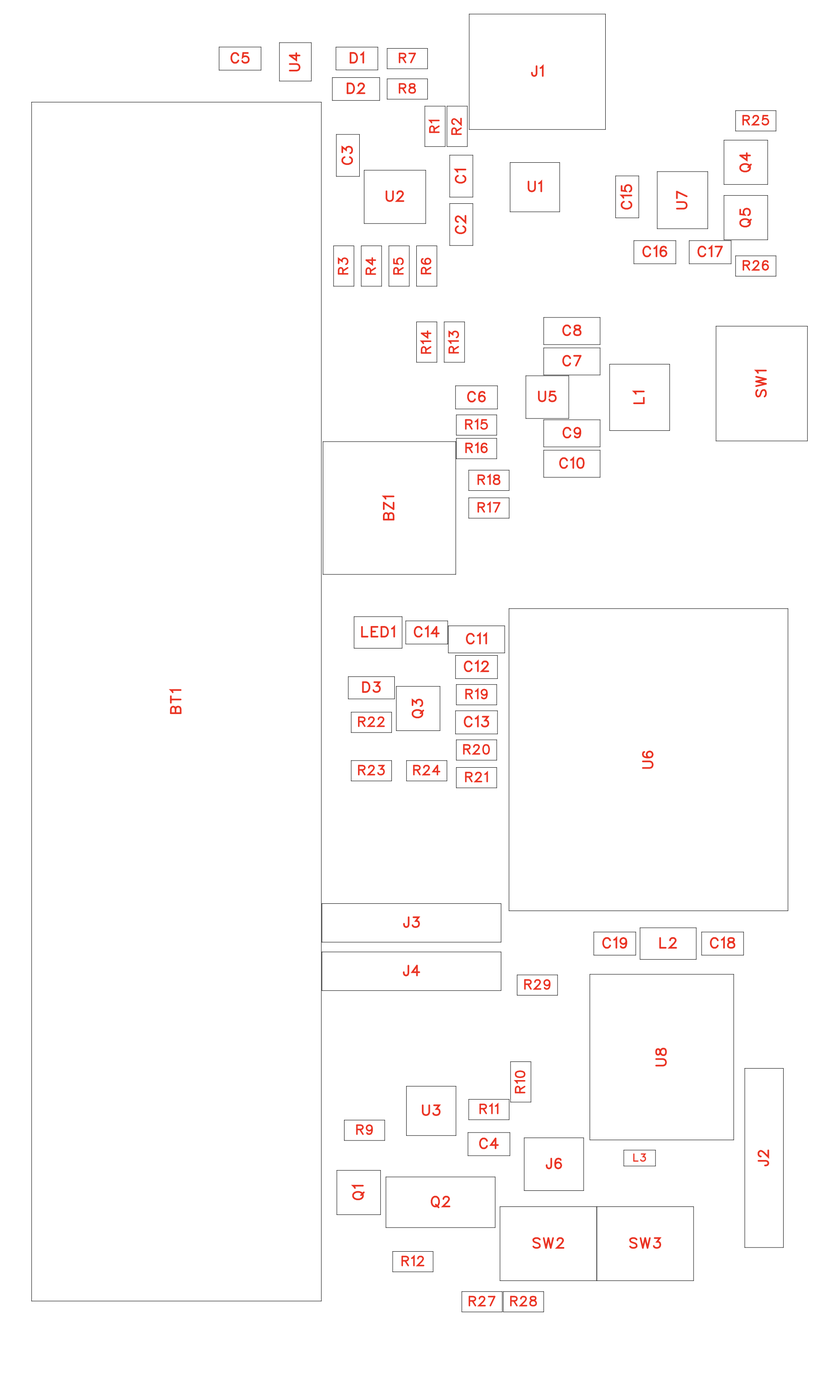
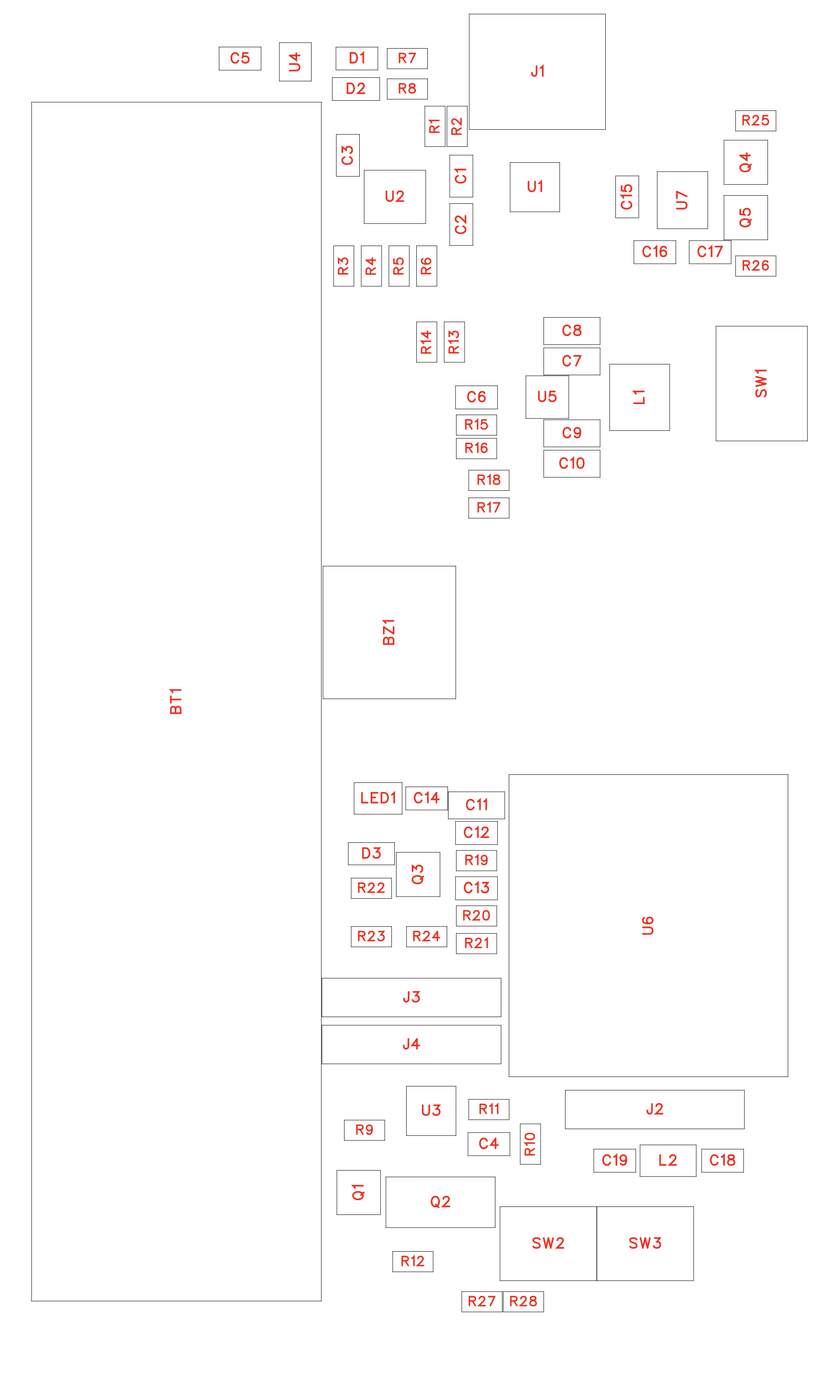
Remove on-board GPS from the design
Keep the external GPS header and its supply filter, delete the module
and antenna parts, and move the ESP32 module closer to the display
socket to free routing space.

diff --git a/docs/component-links.md b/docs/component-links.md
@@ -2,51 +2,48 @@
 
 Generated from the EasyEDA netlist on 2026-11-06. Datasheet and order links come from the EasyEDA library record for each exact part.
 
-**Link state:** every order page returned HTTP 200. Datasheet links were requested with a one-byte GET; the "Datasheet" column shows the HTTP status. 206 means the file answered. 405 means the LCSC file host refused an automated request, so those links are **not verified**. "read" means the datasheet was read for this design. Neither 206 nor 405 confirms the document matches the part. Manufacturer product pages are not filled in.
+**Link state:** every order page returned HTTP 200. Datasheet links were requested with a one-byte GET; the "Datasheet" column shows the HTTP status. A 200 means the server answered, not that the document was read and matched. Manufacturer product pages are not filled in.
 
 DNP parts are marked with `*`. They keep their footprint and stay out of the BOM.
 
 | Refs | Part | LCSC | Footprint | 3D | Datasheet |
 |---|---|---|---|---|---|
-| BT1 | 1042 | [C5249310](https://www.lcsc.com/product-detail/C5249310.html) | BAT-SMD_1042P | yes | [405](https://item.szlcsc.com/datasheet/1042/5962223.html) |
-| BZ1 | MLT-8530 | [C94599](https://www.lcsc.com/product-detail/C94599.html) | BUZ-SMD_4P-L8.5-W8.5-P8.50-BR | yes | [405](https://item.szlcsc.com/datasheet/MLT-8530/95797.html) |
-| C1, C13, C15 | CL10A105KB8NNNC | [C15849](https://www.lcsc.com/product-detail/C15849.html) | C0603 | yes | [405](https://item.szlcsc.com/datasheet/CL10A105KB8NNNC/16531.html) |
-| C2, C3, C18 | CL10A106KP8NNNC | [C19702](https://www.lcsc.com/product-detail/C19702.html) | C0603 | yes | [405](https://item.szlcsc.com/datasheet/CL10A106KP8NNNC/20411.html) |
-| C4, C5, C6, C12, C14, C16, C17, C19 | CC0603KRX7R9BB104 | [C14663](https://www.lcsc.com/product-detail/C14663.html) | C0603 | yes | [405](https://item.szlcsc.com/datasheet/CC0603KRX7R9BB104/15331.html) |
-| C7, C8, C9, C10, C11 | CL21A226MAQNNNE | [C45783](https://www.lcsc.com/product-detail/C45783.html) | C0805 | yes | [405](https://item.szlcsc.com/datasheet/CL21A226MAQNNNE/46786.html) |
-| D1 | KT-0603G | [C12624](https://www.lcsc.com/product-detail/C12624.html) | LED0603-RD | yes | [405](https://item.szlcsc.com/datasheet/KT-0603G/13258.html) |
-| D2 | KT-0603R | [C2286](https://www.lcsc.com/product-detail/C2286.html) | LED-SMD_L1.6-W0.8-R-RD | yes | [405](https://item.szlcsc.com/datasheet/KT-0603R/2659.html) |
-| D3 | 1N4148WS | [C2128](https://www.lcsc.com/product-detail/C2128.html) | SOD-323_L1.8-W1.3-LS2.5-RD | yes | [405](https://item.szlcsc.com/datasheet/1N4148WS/2485.html) |
-| J1 | TYPE-C-31-M-12 | [C165948](https://www.lcsc.com/product-detail/C165948.html) | USB-C_SMD-TYPE-C-31-M-12_1 | yes | [405](https://item.szlcsc.com/datasheet/TYPE-C-31-M-12/177331.html) |
-| J2*, J3*, J4* | PZ254V-11-05P | [C492404](https://www.lcsc.com/product-detail/C492404.html) | HDR-TH_5P-P2.54-V-M | yes | [405](https://item.szlcsc.com/datasheet/PZ254V-11-05P/502960.html) |
-| J5 | PM254-1-14-Z-8.5 | [C2897377](https://www.lcsc.com/product-detail/C2897377.html) | HDR-TH_14P-P2.54-V-F-1 | yes | [405](https://item.szlcsc.com/datasheet/PM254-1-14-Z-8.5/3142382.html) |
-| J6* | U.FL-R-SMT-1(01) | [C598199](https://www.lcsc.com/product-detail/C598199.html) | RF-SMD_U.FL-R-SMT-1-80 | yes | [405](https://item.szlcsc.com/datasheet/U.FL-R-SMT-1(01)/626815.html) |
-| L1 | WPN4020HR47MT | [C370628](https://www.lcsc.com/product-detail/C370628.html) | IND-SMD_L4.0-W4.0 | yes | [405](https://item.szlcsc.com/datasheet/WPN4020HR47MT/344379.html) |
-| L2 | SDFL2012S100KTF | [C1046](https://www.lcsc.com/product-detail/C1046.html) | L0805 | yes | [206](https://atta.szlcsc.com/upload/public/pdf/source/20231027/097A17DDB71564CE812E62F0F80142C9.pdf) |
-| L3* | LQG15HS47NJ02D | [C97998](https://www.lcsc.com/product-detail/C97998.html) | L0402 | yes | [206](https://atta.szlcsc.com/upload/public/pdf/source/20180326/C97998_6CC92641D07F7133B474CD910A72F6DE.pdf) |
-| LED1 | XL-1615RGBC-2812B | [C5349954](https://www.lcsc.com/product-detail/C5349954.html) | LED-SMD_4P-L1.6-W1.5_XL-1615RGBC-WS2812B-1 | yes | [405](https://item.szlcsc.com/datasheet/XL-1615RGBC-2812B/6136403.html) |
-| Q1 | AO3400A | [C20917](https://www.lcsc.com/product-detail/C20917.html) | SOT-23-3_L2.9-W1.3-P1.90-LS2.4-BR | yes | [405](https://item.szlcsc.com/datasheet/AO3400A/21629.html) |
-| Q2 | FS8205A | [C16052](https://www.lcsc.com/product-detail/C16052.html) | TSSOP-8_L4.4-W3.0-P0.65-LS6.4-BL-2 | yes | [405](https://item.szlcsc.com/datasheet/FS8205A/16734.html) |
-| Q3, Q4, Q5 | MMBT3904(RANGE:100-300) | [C20526](https://www.lcsc.com/product-detail/C20526.html) | SOT-23-3_L2.9-W1.3-P1.90-LS2.4-BR | yes | [405](https://item.szlcsc.com/datasheet/MMBT3904(RANGE%253A100-300)/21237.html) |
-| R1, R2 | 0603WAF5101T5E | [C23186](https://www.lcsc.com/product-detail/C23186.html) | R0603 | yes | [405](https://item.szlcsc.com/datasheet/0603WAF5101T5E/23913.html) |
-| R10 | 0603WAF1000T5E | [C22775](https://www.lcsc.com/product-detail/C22775.html) | R0603 | yes | [206](https://atta.szlcsc.com/upload/public/pdf/source/20200306/C422600_1E6D84923E4A46A82E41ADD87F860B5C.pdf) |
-| R12*, R15, R16* | 0603WAF0000T5E | [C21189](https://www.lcsc.com/product-detail/C21189.html) | R0603 | yes | [405](https://item.szlcsc.com/datasheet/0603WAF0000T5E/21903.html) |
-| R13, R23* | 0603WAF2003T5E | [C25811](https://www.lcsc.com/product-detail/C25811.html) | R0603 | yes | [206](https://atta.szlcsc.com/upload/public/pdf/source/20200306/C422600_1E6D84923E4A46A82E41ADD87F860B5C.pdf) |
-| R14, R24* | 0603WAF1003T5E | [C25803](https://www.lcsc.com/product-detail/C25803.html) | R0603 | yes | [405](https://item.szlcsc.com/datasheet/0603WAF1003T5E/26546.html) |
-| R17 | 0603WAF5113T5E | [C23194](https://www.lcsc.com/product-detail/C23194.html) | R0603 | yes | [405](https://item.szlcsc.com/datasheet/0603WAF5113T5E/23921.html) |
-| R18 | 0603WAF9102T5E | [C23265](https://www.lcsc.com/product-detail/C23265.html) | R0603 | yes | [405](https://item.szlcsc.com/datasheet/0603WAF9102T5E/23992.html) |
-| R3, R9, R19, R20, R21, R25, R26, R27*, R28*, R29* | RC0603FR-0710KL | [C98220](https://www.lcsc.com/product-detail/C98220.html) | R0603 | yes | [405](https://item.szlcsc.com/datasheet/RC0603FR-0710KL/99429.html) |
-| R4 | 0603WAF1961T5E | [C22854](https://www.lcsc.com/product-detail/C22854.html) | R0603 | yes | [206](https://atta.szlcsc.com/upload/public/pdf/source/20200306/C422600_1E6D84923E4A46A82E41ADD87F860B5C.pdf) |
-| R5 | 0603WAF3301T5E | [C22978](https://www.lcsc.com/product-detail/C22978.html) | R0603 | yes | [405](https://item.szlcsc.com/datasheet/0603WAF3301T5E/23705.html) |
-| R6 | 0603WAF7152T5E | [C23103](https://www.lcsc.com/product-detail/C23103.html) | R0603 | yes | [405](https://item.szlcsc.com/datasheet/0603WAF7152T5E/23830.html) |
-| R7, R8, R11, R22 | 0603WAF1001T5E | [C21190](https://www.lcsc.com/product-detail/C21190.html) | R0603 | yes | [405](https://item.szlcsc.com/datasheet/0603WAF1001T5E/21904.html) |
-| SW1 | MSK12C02-BB2.5 | [C47020938](https://www.lcsc.com/product-detail/C47020938.html) | SW-SMD_MSK12C02G25-B | yes | [405](https://item.szlcsc.com/datasheet/MSK12C02-BB2.5/49203296.html) |
-| SW2, SW3 | TS-1187A-B-A-B | [C318884](https://www.lcsc.com/product-detail/C318884.html) | SW-SMD_4P-L5.1-W5.1-P3.70-LS6.5-TL_H1.5 | yes | [405](https://item.szlcsc.com/datasheet/TS-1187A-B-A-B/299976.html) |
-| U1 | USBLC6-2SC6 | [C323793](https://www.lcsc.com/product-detail/C323793.html) | SOT-23-6_L2.9-W1.6-P0.95-LS2.8-BL | yes | [206](https://atta.szlcsc.com/upload/public/pdf/source/20181029/C323793_48F7908330A3F84485333C8DC43F9E49.pdf) |
-| U2 | BQ24074RGTR | [C54313](https://www.lcsc.com/product-detail/C54313.html) | QFN-16_L3.0-W3.0-P0.50-TL-EP1.7 | yes | [206](https://www.ti.com/cn/lit/ds/symlink/bq24074.pdf) |
+| BT1 | 1042 | [C5249310](https://www.lcsc.com/product-detail/C5249310.html) | BAT-SMD_1042P | yes | [None](https://item.szlcsc.com/datasheet/1042/5962223.html) |
+| BZ1 | MLT-8530 | [C94599](https://www.lcsc.com/product-detail/C94599.html) | BUZ-SMD_4P-L8.5-W8.5-P8.50-BR | yes | [None](https://item.szlcsc.com/datasheet/MLT-8530/95797.html) |
+| C1, C13, C15 | CL10A105KB8NNNC | [C15849](https://www.lcsc.com/product-detail/C15849.html) | C0603 | yes | [None](https://item.szlcsc.com/datasheet/CL10A105KB8NNNC/16531.html) |
+| C2, C3, C18 | CL10A106KP8NNNC | [C19702](https://www.lcsc.com/product-detail/C19702.html) | C0603 | yes | [None](https://item.szlcsc.com/datasheet/CL10A106KP8NNNC/20411.html) |
+| C4, C5, C6, C12, C14, C16, C17, C19 | CC0603KRX7R9BB104 | [C14663](https://www.lcsc.com/product-detail/C14663.html) | C0603 | yes | [None](https://item.szlcsc.com/datasheet/CC0603KRX7R9BB104/15331.html) |
+| C7, C8, C9, C10, C11 | CL21A226MAQNNNE | [C45783](https://www.lcsc.com/product-detail/C45783.html) | C0805 | yes | [None](https://item.szlcsc.com/datasheet/CL21A226MAQNNNE/46786.html) |
+| D1 | KT-0603G | [C12624](https://www.lcsc.com/product-detail/C12624.html) | LED0603-RD | yes | [None](https://item.szlcsc.com/datasheet/KT-0603G/13258.html) |
+| D2 | KT-0603R | [C2286](https://www.lcsc.com/product-detail/C2286.html) | LED-SMD_L1.6-W0.8-R-RD | yes | [None](https://item.szlcsc.com/datasheet/KT-0603R/2659.html) |
+| D3 | 1N4148WS | [C2128](https://www.lcsc.com/product-detail/C2128.html) | SOD-323_L1.8-W1.3-LS2.5-RD | yes | [None](https://item.szlcsc.com/datasheet/1N4148WS/2485.html) |
+| J1 | TYPE-C-31-M-12 | [C165948](https://www.lcsc.com/product-detail/C165948.html) | USB-C_SMD-TYPE-C-31-M-12_1 | yes | [None](https://item.szlcsc.com/datasheet/TYPE-C-31-M-12/177331.html) |
+| J2, J3*, J4* | PZ254V-11-05P | [C492404](https://www.lcsc.com/product-detail/C492404.html) | HDR-TH_5P-P2.54-V-M | yes | [None](https://item.szlcsc.com/datasheet/PZ254V-11-05P/502960.html) |
+| J5 | PM254-1-14-Z-8.5 | [C2897377](https://www.lcsc.com/product-detail/C2897377.html) | HDR-TH_14P-P2.54-V-F-1 | yes | [None](https://item.szlcsc.com/datasheet/PM254-1-14-Z-8.5/3142382.html) |
+| L1 | WPN4020HR47MT | [C370628](https://www.lcsc.com/product-detail/C370628.html) | IND-SMD_L4.0-W4.0 | yes | [None](https://item.szlcsc.com/datasheet/WPN4020HR47MT/344379.html) |
+| L2 | SDFL2012S100KTF | [C1046](https://www.lcsc.com/product-detail/C1046.html) | L0805 | yes | [None](https://atta.szlcsc.com/upload/public/pdf/source/20231027/097A17DDB71564CE812E62F0F80142C9.pdf) |
+| LED1 | XL-1615RGBC-2812B | [C5349954](https://www.lcsc.com/product-detail/C5349954.html) | LED-SMD_4P-L1.6-W1.5_XL-1615RGBC-WS2812B-1 | yes | [None](https://item.szlcsc.com/datasheet/XL-1615RGBC-2812B/6136403.html) |
+| Q1 | AO3400A | [C20917](https://www.lcsc.com/product-detail/C20917.html) | SOT-23-3_L2.9-W1.3-P1.90-LS2.4-BR | yes | [None](https://item.szlcsc.com/datasheet/AO3400A/21629.html) |
+| Q2 | FS8205A | [C16052](https://www.lcsc.com/product-detail/C16052.html) | TSSOP-8_L4.4-W3.0-P0.65-LS6.4-BL-2 | yes | [None](https://item.szlcsc.com/datasheet/FS8205A/16734.html) |
+| Q3, Q4, Q5 | MMBT3904(RANGE:100-300) | [C20526](https://www.lcsc.com/product-detail/C20526.html) | SOT-23-3_L2.9-W1.3-P1.90-LS2.4-BR | yes | [None](https://item.szlcsc.com/datasheet/MMBT3904(RANGE%253A100-300)/21237.html) |
+| R1, R2 | 0603WAF5101T5E | [C23186](https://www.lcsc.com/product-detail/C23186.html) | R0603 | yes | [None](https://item.szlcsc.com/datasheet/0603WAF5101T5E/23913.html) |
+| R10 | 0603WAF1000T5E | [C22775](https://www.lcsc.com/product-detail/C22775.html) | R0603 | yes | [None](https://atta.szlcsc.com/upload/public/pdf/source/20200306/C422600_1E6D84923E4A46A82E41ADD87F860B5C.pdf) |
+| R12*, R15, R16* | 0603WAF0000T5E | [C21189](https://www.lcsc.com/product-detail/C21189.html) | R0603 | yes | [None](https://item.szlcsc.com/datasheet/0603WAF0000T5E/21903.html) |
+| R13, R23* | 0603WAF2003T5E | [C25811](https://www.lcsc.com/product-detail/C25811.html) | R0603 | yes | [None](https://atta.szlcsc.com/upload/public/pdf/source/20200306/C422600_1E6D84923E4A46A82E41ADD87F860B5C.pdf) |
+| R14, R24* | 0603WAF1003T5E | [C25803](https://www.lcsc.com/product-detail/C25803.html) | R0603 | yes | [None](https://item.szlcsc.com/datasheet/0603WAF1003T5E/26546.html) |
+| R17 | 0603WAF5113T5E | [C23194](https://www.lcsc.com/product-detail/C23194.html) | R0603 | yes | [None](https://item.szlcsc.com/datasheet/0603WAF5113T5E/23921.html) |
+| R18 | 0603WAF9102T5E | [C23265](https://www.lcsc.com/product-detail/C23265.html) | R0603 | yes | [None](https://item.szlcsc.com/datasheet/0603WAF9102T5E/23992.html) |
+| R3, R9, R19, R20, R21, R25, R26, R27*, R28* | RC0603FR-0710KL | [C98220](https://www.lcsc.com/product-detail/C98220.html) | R0603 | yes | [None](https://item.szlcsc.com/datasheet/RC0603FR-0710KL/99429.html) |
+| R4 | 0603WAF1961T5E | [C22854](https://www.lcsc.com/product-detail/C22854.html) | R0603 | yes | [None](https://atta.szlcsc.com/upload/public/pdf/source/20200306/C422600_1E6D84923E4A46A82E41ADD87F860B5C.pdf) |
+| R5 | 0603WAF3301T5E | [C22978](https://www.lcsc.com/product-detail/C22978.html) | R0603 | yes | [None](https://item.szlcsc.com/datasheet/0603WAF3301T5E/23705.html) |
+| R6 | 0603WAF7152T5E | [C23103](https://www.lcsc.com/product-detail/C23103.html) | R0603 | yes | [None](https://item.szlcsc.com/datasheet/0603WAF7152T5E/23830.html) |
+| R7, R8, R11, R22 | 0603WAF1001T5E | [C21190](https://www.lcsc.com/product-detail/C21190.html) | R0603 | yes | [None](https://item.szlcsc.com/datasheet/0603WAF1001T5E/21904.html) |
+| SW1 | MSK12C02-BB2.5 | [C47020938](https://www.lcsc.com/product-detail/C47020938.html) | SW-SMD_MSK12C02G25-B | yes | [None](https://item.szlcsc.com/datasheet/MSK12C02-BB2.5/49203296.html) |
+| SW2, SW3 | TS-1187A-B-A-B | [C318884](https://www.lcsc.com/product-detail/C318884.html) | SW-SMD_4P-L5.1-W5.1-P3.70-LS6.5-TL_H1.5 | yes | [None](https://item.szlcsc.com/datasheet/TS-1187A-B-A-B/299976.html) |
+| U1 | USBLC6-2SC6 | [C323793](https://www.lcsc.com/product-detail/C323793.html) | SOT-23-6_L2.9-W1.6-P0.95-LS2.8-BL | yes | [None](https://atta.szlcsc.com/upload/public/pdf/source/20181029/C323793_48F7908330A3F84485333C8DC43F9E49.pdf) |
+| U2 | BQ24074RGTR | [C54313](https://www.lcsc.com/product-detail/C54313.html) | QFN-16_L3.0-W3.0-P0.50-TL-EP1.7 | yes | [None](https://www.ti.com/cn/lit/ds/symlink/bq24074.pdf) |
 | U3 | DW01A | [C85680](https://www.lcsc.com/product-detail/C85680.html) | SOT-23-6_L2.9-W1.6-P0.95-LS2.8-BL | yes | [read](https://mm.digikey.com/Volume0/opasdata/d220001/medias/docus/7833/DW01A%20SOT-23-6.PDF) |
-| U4 | MAX17048G+T10 | [C2682616](https://www.lcsc.com/product-detail/C2682616.html) | TDFN-8_L2.0-W2.0-P0.50-BL-EP1.2 | yes | [405](https://item.szlcsc.com/datasheet/MAX17048G%252BT10/2777647.html) |
+| U4 | MAX17048G+T10 | [C2682616](https://www.lcsc.com/product-detail/C2682616.html) | TDFN-8_L2.0-W2.0-P0.50-BL-EP1.2 | yes | [None](https://item.szlcsc.com/datasheet/MAX17048G%252BT10/2777647.html) |
 | U5 | TPS63802DLAR | [C704850](https://www.lcsc.com/product-detail/C704850.html) | VSON-HR-10_L3.0-W2.0-P0.50-TL | no, use envelope | [read](https://www.ti.com/lit/ds/symlink/tps63802.pdf) |
-| U6 | ESP32-C5-WROOM-1U-N8R8-V1.2 | [C54951858](https://www.lcsc.com/product-detail/C54951858.html) | COMM-SMD_32P-L21.2-W18.0_ESP32-C5-WROOM-1U | yes | [405](https://item.szlcsc.com/datasheet/ESP32-C5-WROOM-1U-N8R8-V1.2/58523935.html) |
-| U7 | CH343P | [C2846043](https://www.lcsc.com/product-detail/C2846043.html) | TQFN-16_L3.0-W3.0-P0.50-BL-EP1.7 | yes | [405](https://item.szlcsc.com/datasheet/CH343P/3039795.html) |
-| U8* | ATGM336H-5N31 | [C90770](https://www.lcsc.com/product-detail/C90770.html) | GPSM-SMD_ATGM336H-TR | yes | [405](https://item.szlcsc.com/datasheet/ATGM336H-5N31/91958.html) |
+| U6 | ESP32-C5-WROOM-1U-N8R8-V1.2 | [C54951858](https://www.lcsc.com/product-detail/C54951858.html) | COMM-SMD_32P-L21.2-W18.0_ESP32-C5-WROOM-1U | yes | [None](https://item.szlcsc.com/datasheet/ESP32-C5-WROOM-1U-N8R8-V1.2/58523935.html) |
+| U7 | CH343P | [C2846043](https://www.lcsc.com/product-detail/C2846043.html) | TQFN-16_L3.0-W3.0-P0.50-BL-EP1.7 | yes | [None](https://item.szlcsc.com/datasheet/CH343P/3039795.html) |

diff --git a/docs/requirements-and-plan.md b/docs/requirements-and-plan.md
@@ -1,6 +1,6 @@
 # Marauder ESP32-C5 board with the Pancake pinout: requirements and plan
 
-Status: **steps 1 to 5 approved; step 6 ready for review**
+Status: **steps 1 to 5 approved; step 6 updated without on-board GPS, ready for review**
 Date: 2026-11-06 · Board revision: A (not started)
 
 This is the main project document. All work follows section 8, and decisions go in the log in section 10.
@@ -22,7 +22,7 @@ The board plugs directly onto the pin header of the 3.5" display. The board come
 - one USB-C port for flashing, console, and charging
 - 18650 charging and protection
 - a battery fuel gauge
-- optional GPS, with pins broken out for an external module
+- a header for an external GPS module
 
 ---
 
@@ -123,8 +123,8 @@ Display data from the lcdwiki MSP3526 drawing **[fact]**:
 | F5 | RESET and BOOT buttons. BOOT also acts as the select button (GPIO28, `C_BTN`) | Firmware |
 | F6 | Addressable LED on GPIO27 | Firmware |
 | F7 | MAX17048 fuel gauge on I2C, address 0x36, on the bus shared with touch | Firmware |
-| F8 | On-board GPS footprint. The board works fully without it | Brief |
-| F9 | External GPS header: VCC, GND, TX, RX, PPS | Brief |
+| F8 | ~~On-board GPS footprint~~ Removed by the reviewer on 2026-11-06 to free board area. The board works fully without GPS | Reviewer |
+| F9 | External GPS header J2: filtered 3V3, GND, TX, RX, PPS. PPS is a free pin, not connected to the ESP | Brief |
 | F10 | Passive buzzer on GPIO6 through a transistor | Case build |
 | F11 | Display socket 1×14, 2.54 mm, position per 3.4; the display plugs directly into it | 3.3, 3.4 |
 
@@ -151,7 +151,7 @@ Display data from the lcdwiki MSP3526 drawing **[fact]**:
 | M1 | The board outline is 55.50 × 98.00 mm, and the display mounting holes line up | 3.4 |
 | M2 | USB-C, switch, buttons, and the SD slot stay reachable from the board edges in a future case | 3.4 |
 | M3 | A 3D assembly with the cell and display is checked for clearances, and a STEP file is exported for the case design | Skill, step 4 |
-| M4 | 4 layers, 1.6 mm **[decision]**: solid ground under the DC-DC and the GPS path | Section 7 |
+| M4 | 4 layers, 1.6 mm **[decision]**: solid ground under the DC-DC | Section 7 |
 | M5 | Parts suit hand assembly on a hot table: 0603 passives where possible. Each part has datasheet and order links, and key parts must be buyable from more than one shop | Q4, Q7, skill step 4 |
 | M6 | Test points: VBAT, VSYS, 3V3, UART0, EN, GPIO28 | Debugging |
 
@@ -236,10 +236,9 @@ Starting candidates from step 1. Final parts are in `circuit-design.md`.
 | USB-UART | CH343P, CP2102N-A02-GQFN20 | C2846043, C1550542 |
 | USB ESD | USBLC6-2SC6 | C323793 |
 | LED | XL-1615RGBC-2812B (check operation at 3.3 V) | C5349954 |
-| GPS | ATGM336H-5N31 | C90770 |
 | Cell holder | Keystone 1042 size class (Q6). Alternatives: MY-18650-02, BH-18650-B1BA002 | C5249310, C2979182, C2988620 |
 
-GPS: the module supports active and passive antennas. For a passive antenna the manufacturer advises an LNA before the input, so step 3 must determine the type of the ceramic antenna in the case BOM. The on-board option uses U.FL for the case antenna and antenna power from VCC_RF.
+The GPS module is external, on J2.
 
 ---
 
@@ -293,7 +292,7 @@ The user requires the schematic to be split into separate sheets by function. Ea
 | 04_MCU | ESP32-C5 module, decoupling, EN, strapping, buttons, LED, buzzer |
 | 05_USB_UART | USB-UART bridge, auto-bootloader |
 | 06_Display | Display socket, I2C pull-up pads |
-| 07_GPS | ATGM336H, U.FL, supply filter, external header |
+| 07_GPS | Supply filter, external GPS header |
 
 ### 8.2 First-board checklist
 
@@ -303,7 +302,7 @@ The user requires the schematic to be split into separate sheets by function. Ea
 3. Charging: with the device off and on.
 4. USB: port detection, auto-bootloader, flashing `pancake`.
 5. Display, touch, SD, battery percentage, LED, buzzer, button.
-6. Wi-Fi 2.4/5 GHz, BLE, GPS: on-board, external module, and without GPS.
+6. Wi-Fi 2.4/5 GHz, BLE, GPS through J2, and without GPS.
 7. Heating and voltage droop during TX peaks at low charge.
 8. Fit of the display and the cell holder; STEP check for the case.
 
@@ -317,7 +316,7 @@ The user requires the schematic to be split into separate sheets by function. Ea
 | Different display revision: pin order or controller | Board does not work | Check the real module before ordering boards |
 | Dim backlight or unstable SD at `VCC` = 3.3 V | Poor brightness | Measure at bring-up; raising the rail within the ESP32-C5 limit is the fallback |
 | Exposed cell near the display-side parts or a hand-assembly short | Damage | Protection on board, test before fitting the cell |
-| DC-DC noise degrades GPS reception | No fix | Filter, separation, solid ground, U.FL antenna |
+| DC-DC noise reaches an external GPS | No fix | Filter on J2, module and antenna away from the DC-DC in the case |
 | A part is out of stock | Delay | Two candidates for each key block |
 | A Pancake update changes pins | Incompatibility | Version fixed at v1.20.0; recheck before ordering |
 | 3V3 droop during TX peaks | Resets | Current margin, capacitors at the module, measurement |
@@ -330,6 +329,7 @@ The user requires the schematic to be split into separate sheets by function. Ea
 |---|---|---|---|
 | 1 | 2026-11-05 | Q1: the target is the Pancake pinout with `pancake` firmware. The user confirmed by renaming the repository and recreating the project | Repository `marauder-c5-pancake-board`, EasyEDA project `Marauder C5 Pancake` |
 | 1 | 2026-11-05 | All project files and Markdown are written in English | This file translated |
+| 1, 4, 5, 6 | 2026-11-06 | On-board GPS removed; J2 kept and populated. U8, J6, L3, R29 deleted, RF_50R class deleted, module moved down, placement respaced | All docs |
 | 6 | 2026-11-06 | M3 holes and 3 mm rounded corners, per the reviewer. Placement done | `placement.md` |
 | 5 | 2026-11-06 | Step 5 approved | — |
 | 5 | 2026-11-06 | Stack-up, net classes, and rules set; four-layer template could not be applied through the API, so a customized two-layer template is used | `design-rules.md` |

diff --git a/docs/circuit-design.md b/docs/circuit-design.md
@@ -138,23 +138,16 @@ The CH343 datasheet V1.6 confirms the pinout and a built-in CDC driver path that
 
 ## 07_GPS
 
-The GPS parts are optional. With them unpopulated, the board works and the external header stays usable.
+The on-board GPS was removed. J2 connects an external module.
 
 | Item | Value | Basis |
 |---|---|---|
-| Module | ATGM336H-5N31 | 2.7–3.6 V, under 25 mA continuous, 100 mA peak (DS) |
-| Supply filter | 10 µH, 0805, 10 µF | Corner 16 kHz; about 7700× at 1.4 MHz (Calc). Ferrites are weak at 1.4 MHz |
+| J2 | 1×5, 2.54 mm: GPS_3V3, GND, GPS_TXD, GPS_RXD, GPS_PPS | F9 |
+| Supply filter | 10 µH, 0805, 10 µF, 100 nF | Corner 16 kHz; about 7700× at 1.4 MHz (Calc). Ferrites are weak at 1.4 MHz |
 | Filter drop | About 0.08 V at 100 mA with 0.8 Ω | Est |
-| Antenna feed | 47 nH from VCC_RF to the RF line | DS active antenna circuit |
-| Antenna | U.FL, **active** ceramic antenna | Passive needs an extra LNA stage (DS) |
-| RF trace | 50 Ω, short | DS |
-| VBAT (backup) | Tied to the filtered VCC | No hot start; cold start each power-up |
-| ON/OFF, nRESET | Confirm in step 4 | nRESET may float (DS) |
-| External header | 1×5: VCC, GND, TXD, RXD, PPS, unpopulated | F9 |
+| PPS | Not connected to the ESP | No firmware uses it |
 
-Do not connect the on-board module and an external one at the same time, because both would drive GPIO14.
-
-The antenna listed in the case BOM is unverified. Buy an antenna described as active, 3.3 V, with a U.FL lead.
+GPS_TXD (module TX) goes to GPIO14, and GPS_RXD goes to GPIO13. With no module fitted, GPIO14 has nothing driving it. The firmware should show no GPS. Check this at bring-up.
 
 ## Part list
 
@@ -183,8 +176,8 @@ Avoid AliExpress for the ESP32-C5 module, MAX17048, and TPS63802 if another sour
 | 05 | CH343P | C2846043 | 1 | QFN-16 3×3 |
 | 05 | MMBT3904 | C20526 | 2 | SOT-23 |
 | 06 | Socket PM254-1-14-Z-8.5 | C2897377 | 1 | THT |
-| 07 | ATGM336H-5N31 (optional) | C90770 | 1 | 9.7×10.1 mm |
-| 07 | U.FL-R-SMT-1(01) (optional) | C598199 | 1 | SMD |
+| 07 | Header PZ254V-11-05P | C492404 | 1 | THT |
+| 07 | Inductor SDFL2012S100KTF | C1046 | 1 | 0805 |
 
 Plus 0603 resistors and capacitors, 0805 22 µF capacitors, and a 10 µH 0805 inductor. Step 4 lists exact values.
 
@@ -194,12 +187,12 @@ The schematic is in EasyEDA project `Marauder C5 Pancake`, seven sheets, as in `
 
 | Check | Result | Evidence |
 |---|---|---|
-| Netlist against the design table | 79 parts, 65 nets, 0 differences; no single-pin nets | Exported netlist compared by script |
+| Netlist against the design table | 75 parts, 62 nets, 0 differences; one single-pin net, GPS_PPS at J2 | Exported netlist compared by script |
 | Unused pins | Marked no-connect | Schematic |
 | ERC | DW_VDD duplicate name fixed. Two warnings accepted: part names were set to values such as 10k, which differs from the library Name. Supplier Part codes are correct in the netlist | EasyEDA log, read by the reviewer; rerun pending |
-| 3D models | 41 of 42 distinct parts; TPS63802 has none, use a 3 × 2 × 1 mm envelope | Library record |
+| 3D models | 38 of 39 distinct parts; TPS63802 has none, use a 3 × 2 × 1 mm envelope | Library record |
 
-Symbol pins checked against the datasheet: BQ24074, TPS63802, MAX17048, ESP32-C5-WROOM-1U, CH343P, ATGM336H.
+Symbol pins checked against the datasheet: BQ24074, TPS63802, MAX17048, ESP32-C5-WROOM-1U, CH343P.
 
 Checked against typical use only, not against a datasheet: USBLC6-2SC6, XL-1615 LED, SW1, MLT-8530, TS-1187A, FS8205A, DW01A pin order.
 

diff --git a/docs/placement.md b/docs/placement.md
@@ -25,10 +25,10 @@ The corner radius is concentric with the holes.
 | USB-UART | X 43–55, Y 79–92 | U7, Q4, Q5 | Beside USB, on the way to the module |
 | DC-DC | X 29–46, Y 62–78 | U5, L1, C6–C10, R13–R18 | Between the cell path and the module |
 | Power switch | X 50–56, Y 68–76 | SW1 | On the right edge, lever outward |
-| MCU | X 31–55, Y 35–57 | U6, C11–C13, R19–R21 | Central, close to the DC-DC and the socket |
-| Indicators | X 22–31, Y 42–68 | BZ1, LED1, Q3, D3 | Beside the module |
-| Debug headers | X 21–34, Y 28–35 | J3, J4 | Unpopulated |
-| GPS | X 37–55, Y 12–33 | U8, J6, L2, L3, C18, C19, J2 | Farthest from the DC-DC inductor |
+| MCU | X 31–55, Y 23–45 | U6, C11–C13, R19–R21 | Close to the socket; Y 47–60 stays free for routing |
+| Indicators | X 22–31, Y 31–59 | BZ1, LED1, Q3, D3 | Beside the module |
+| Debug headers | X 21–34, Y 22–29 | J3, J4 | Unpopulated |
+| External GPS | X 39–52, Y 14–21 | J2, L2, C18, C19 | Farthest from the DC-DC inductor |
 | Cell protection | X 22–37, Y 11–23 | Q1, Q2, U3, R9–R11, C4 | At the − tab |
 | Buttons | X 34–48, Y 6–14 | SW2, SW3 | Bottom edge |
 | Display socket | Y 2, display side | J5 | Fixed by the display |
@@ -60,9 +60,9 @@ The capacitor ground pads reach the IC ground through L2. This is an estimate of
 
 | Metric | Value | Evidence |
 |---|---|---|
-| Ratsnest length, GND excluded | 1928 mm | Script, minimum spanning tree per net |
-| Ratsnest crossings | About 360 | Script, an upper estimate |
-| Most congested | X 30–40, Y 10–20 and X 30–40, Y 30–50 | Script, 10 mm grid |
+| Ratsnest length, GND excluded | 1741 mm, was 1928 mm | Script, minimum spanning tree per net |
+| Ratsnest crossings | About 300, was 360 | Script, an upper estimate |
+| Most congested | X 30–40, Y 10–40 | Script, 10 mm grid |
 | Overlaps | None, by part bounding boxes | Script |
 | Beyond the board edge | J1 by 0.7 mm, SW1 by 1.0 mm, intended | Script |
 

diff --git a/docs/design-rules.md b/docs/design-rules.md
@@ -55,14 +55,11 @@ Inner layers need far more width, so high-current paths run on L1 and L4, and L3
 | POWER_2A | BAT, VSYS, 3V3, CELL_N, B_N, FS_D | 2.0 A | Min 0.8 mm, default 1.0 mm, or a pour | Track rule on class |
 | VBUS_1A | VBUS | 1.0 A | Min 0.3 mm, default 0.5 mm | Track rule on class |
 | SWITCH | DCDC_L1, DCDC_L2 | Part rating | Short and wide on L1, no vias | Class, placement note |
-| RF_50R | GPS_RF | Signal | 0.36 mm on L1 | Track rule on class |
 | SENSE | DCDC_FB, DCDC_EN, CHG_ISET, CHG_ILIM, CHG_TMR, CHG_TS | Signal | Default width, away from L1/L2 | Class, routing note |
 | SPI | SPI_SCK, SPI_MOSI, SPI_MISO | Signal | Default width | Class |
 | Diff pair USB | USB_DP, USB_DN | Signal | 0.2 mm pair, short | Pair defined |
 
 **Vias:** 0.3 mm drill with 18 µm plating is treated as an inner conductor of its barrel width, about 0.7 A (Calc). Use at least 3 vias at each POWER_2A layer change. Prefer staying on L1.
-
-**GPS RF trace:** microstrip over L2, 0.2104 mm dielectric, εr 4.4: 0.36 mm gives 50.5 Ω (Calc, Hammerstad). The 7628 εr is listed as 4.4 and 4.6 by different JLCPCB pages. The trace is short, so the sensitivity is small. No impedance control is ordered.
 
 ## Holder footprint
 
@@ -81,8 +78,7 @@ Measure the bought holder against this before ordering.
 | AGND joined near the IC | Routing note. Schematic uses one GND net | Step 8 |
 | CELL Kelvin at the holder tab | Routing note | Step 8 |
 | DW01A sense at the FET | Routing note | Step 8 |
-| GPS RF short over solid ground | RF_50R rule, L2 solid | Step 8 |
-| GPS filter at the module | Placement note | Step 6 |
+| GPS filter at J2 | Placement note | Step 6 |
 | Copper rise (A12) | Conductor table above | Step 8 |
 
 ## Exceptions

diff --git a/docs/power-design.md b/docs/power-design.md
@@ -123,8 +123,7 @@ di/dt: No data, because the edge time is not in the datasheet. Loop inductance b
 | ISET, ILIM, TS | Charger programming | VBUS and charger heat | Resistors at the pins, returned to VSS | Step 8 |
 | CELL at MAX17048 | Fuel gauge voltage | Cell path current | Kelvin from the holder tab, not from the shared pour | Step 8 |
 | DW01A class CS | Overcurrent sense | Cell path current | Sensed at the FET, with a filter at the pin | Step 8 |
-| GPS RF_IN | GNSS signal | L1, L2, inductor, SPI | Short 50 Ω trace, solid ground reference, far from the DC-DC | Step 6, step 8 |
-| GPS VCC | Below 50 mVpp ripple (manual) | DC-DC ripple | Filter at the module | Measure |
+| GPS_3V3 at J2 | Below 50 mVpp ripple, for an ATGM336H class module (manual) | DC-DC ripple | Filter at J2 | Measure |
 | USB D+/D− | USB full speed | SPI | Short, matched pair | Step 8 |
 
 ## Charger heat
@@ -166,7 +165,7 @@ Consequences:
 | A6 | Cell path drop at 1.22 A | ≤ 0.35 V | Decision | Calc, then measure | Pass: 0.31 V, Est |
 | A7 | Falling cutoff at or above 2.9 V | 2.91 V min | Calc | Measure | Pass by Calc |
 | A8 | Off drain | ≤ 50 µA | Decision | Measure | Pass at 29 µA typ; 53 µA worst case exceeds, Calc |
-| A9 | GPS supply ripple | ≤ 50 mVpp | Manual | Measure | No data; filter gives about 7700× at 1.4 MHz, Calc |
+| A9 | J2 supply ripple | ≤ 50 mVpp | Manual | Measure | No data; filter gives about 7700× at 1.4 MHz, Calc |
 | A10 | No restart loop near empty | Stops cleanly | Decision | Bring-up | No data |
 | A11 | Reversed cell | No damage | P6 | Bring-up, current limited supply first | No data |
 | A12 | Copper rise at design current | Set in step 5 | Step 5 | Calc | No data |

diff --git a/docs/mechanics.md b/docs/mechanics.md
@@ -71,7 +71,6 @@ Reasons:
 - One reflow pass on the hot table.
 - Nothing on the display side can touch the SD slot, the card, or the FPC.
 - Every part stays reachable for probing, with buttons, USB-C, and U.FL exposed.
-- The GPS antenna faces away from the metal display frame.
 
 The cell holder is fitted by hand after reflow, because the plastic of an unbranded holder is not known to survive reflow.
 
